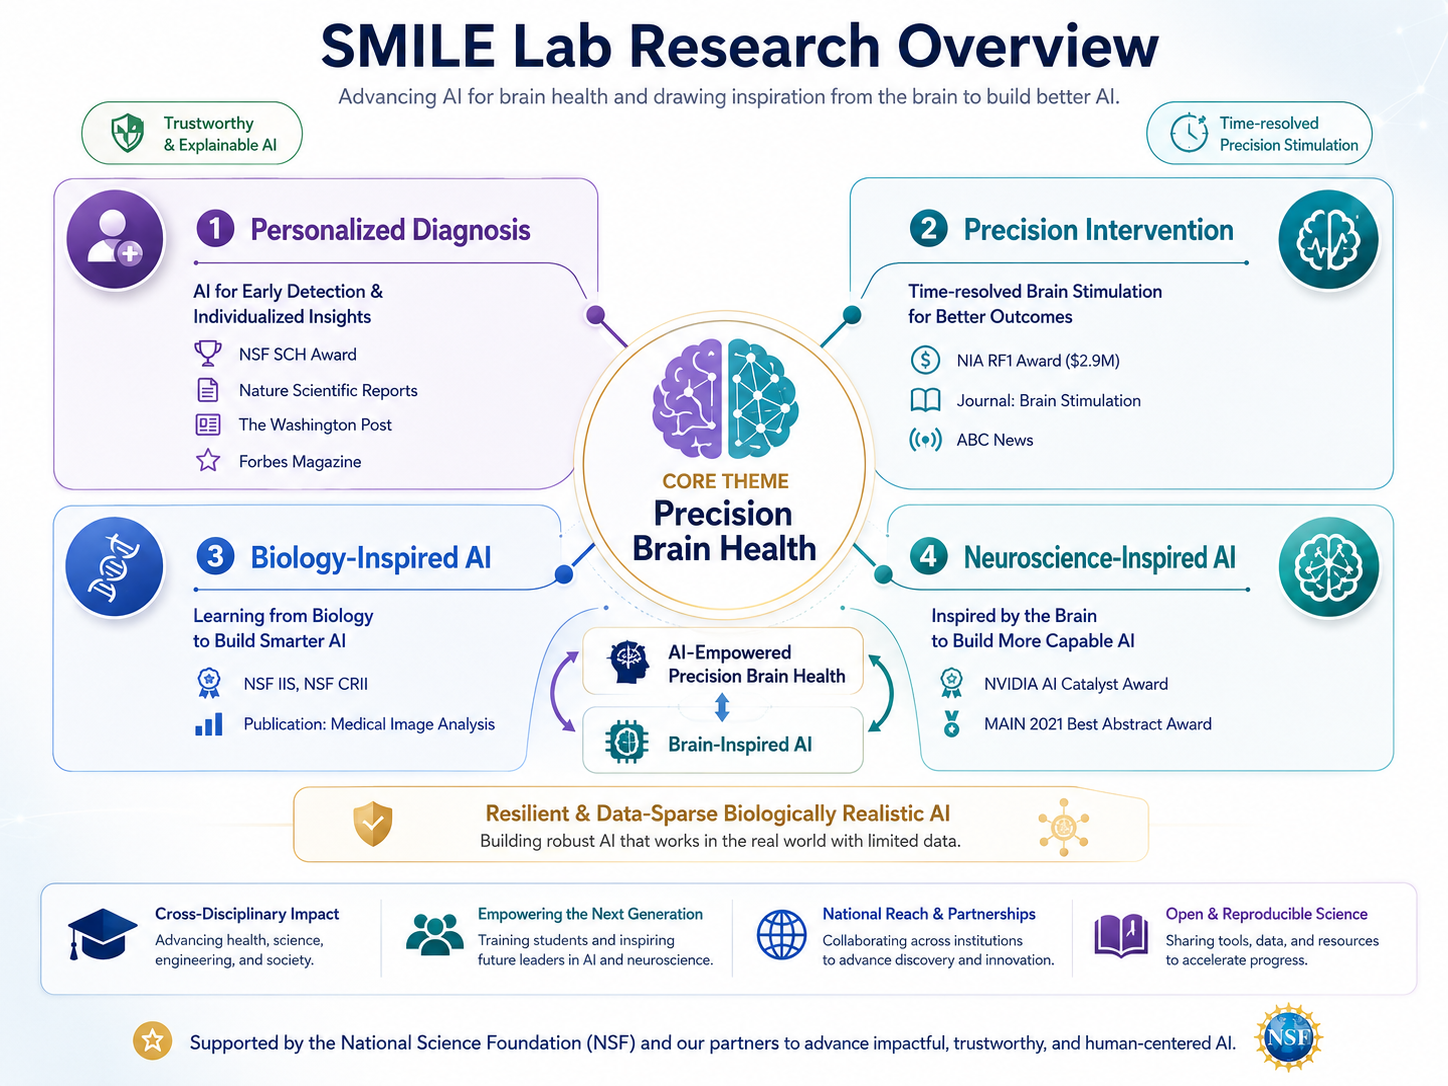
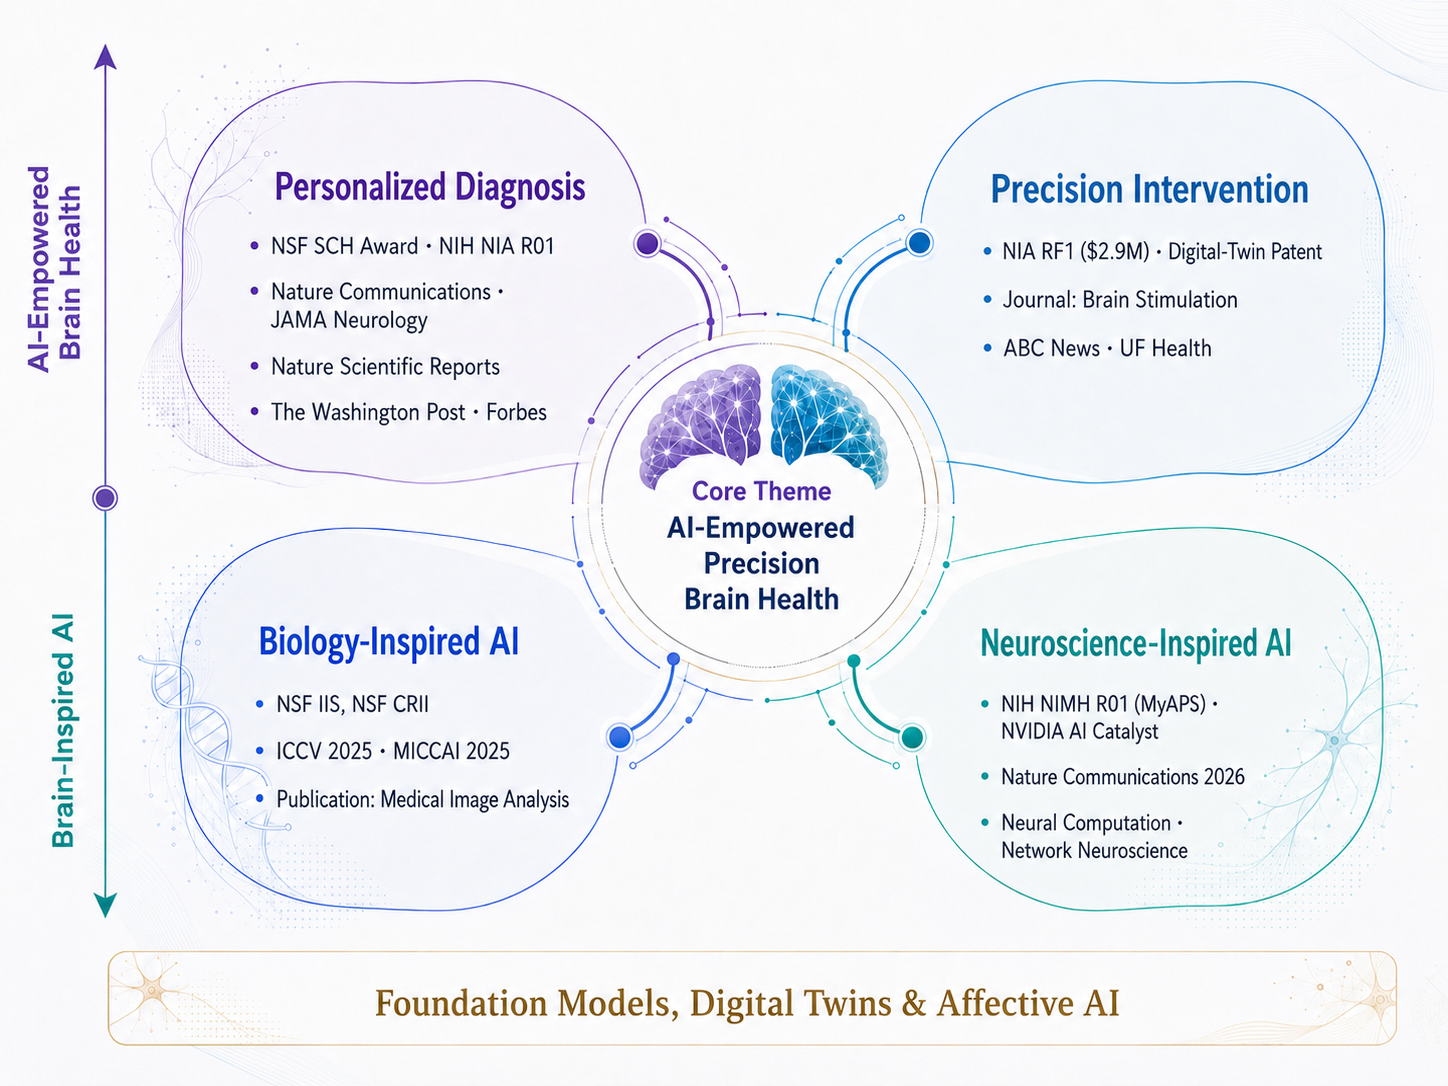
update to research

Changed region(s): [[0.0, 0.0912, 0.9634, 1.0], [0.1865, 0.0, 0.808, 0.1215], [0.0622, 0.0304, 0.0932, 0.0608]]

diff --git a/index.html b/index.html
@@ -3186,25 +3186,19 @@
                     <div class="headercontent">
                         <div class="section-container">
                             <h2 class="title">Research Summary</h2>
-                            <div class="row">
-                                <div class="col-md-8">
-                                    <img alt="Research overview diagram" src="img/research/overvew.png" class="img-responsive">
-                                </div>
-
-                                <div class="col-md-4">
-                                    <div class="subtitle text-center">
-                                        <h3>Interests</h3>
-                                    </div>
-                                    <ul class="ul-boxed list-unstyled">
-                                        <li>AI-Empowered Brain Health</li>
-                                        <li>Brain-Inspired AI</li>
-                                        <li>Deep Learning</li>
-                                        <li>Brain Dynamics</li>
-                                        <li>Medical Image Analysis</li>
-                                    </ul>
-                                </div>
-                                <img alt="Research areas tree diagram" src="img/research/Tree.png" class="img-responsive">
-
+                            <div class="research-summary-interests">
+                                <h3>Interests</h3>
+                                <ul class="ul-boxed list-unstyled">
+                                    <li>AI-Empowered Brain Health</li>
+                                    <li>Brain-Inspired AI</li>
+                                    <li>Deep Learning</li>
+                                    <li>Brain Dynamics</li>
+                                    <li>Medical Image Analysis</li>
+                                </ul>
+                            </div>
+                            <div class="research-summary-visuals">
+                                <img alt="SMILE Lab research overview of personalized diagnosis, precision intervention, biology-inspired AI, and neuroscience-inspired AI" src="img/research/research-overview.png" class="img-responsive research-infographic" width="1448" height="1086">
+                                <img alt="SMILE Lab research tree connecting individualized treatment prediction, early diagnosis, brain stimulation, medical image analysis, biology-inspired AI, and neuroscience-inspired AI" src="img/research/research-tree.png" class="img-responsive research-infographic" width="1448" height="1086">
                             </div>
                         </div>
                     </div>
@@ -3858,7 +3852,7 @@
                                     <!--YouTube Videos-->
                                     <!--To add YouTube videos take the youtube link: add /embed/ and remove watch?v=. See the example video \/ -->
 
-                                    <h2 class="title">Inside the SMILE Lab | University of Florida Research</h2>
+                                    <h2 class="title">Inside the SMILE Lab | Vanderbilt University + University of Florida Research</h2>
                                     <p></p>
                                     <div class="scripps_iframe_embed" style="position:relative">
                                         <div style="display:block;width:100%;height:auto;padding-bottom:56.25%;"></div>
@@ -3867,7 +3861,7 @@
                                             height="100%" frameborder="0" webkitallowfullscreen="" allowfullscreen=""
                                             mozallowfullscreen="" scrolling="no"
                                             src="https://www.youtube.com/embed/NPq9THkVquw?si=ETPwx8AMh-YYoKEe"
-                                            title="Inside the SMILE Lab | University of Florida Research"
+                                            title="Inside the SMILE Lab | Vanderbilt University + University of Florida Research"
                                             allow="autoplay; fullscreen"></iframe>
                                     </div>
 

diff --git a/redesign/research.html b/redesign/research.html
@@ -66,12 +66,12 @@
  <section class="py-12 md:py-16">
  <div class="max-w-7xl mx-auto px-4 sm:px-6 lg:px-8">
  <div class="bg-white rounded-2xl shadow-sm border border-stone-100 p-6 md:p-10">
- <h2 class="text-2xl font-bold mb-4">Overview</h2>
+ <h2 class="text-2xl font-bold mb-4">Research Ecosystem</h2>
  <p class="text-stone-700 leading-relaxed mb-6">
  The SMILE Lab's research encompasses two principal themes: <strong class="text-stone-900">AI-Empowered Precision Brain Health</strong> and <strong class="text-stone-900">Brain-Inspired AI</strong>. We develop novel machine learning and deep learning methods to understand, diagnose, and treat neurological conditions, while simultaneously leveraging principles from neuroscience to design next-generation AI architectures. Our interdisciplinary approach bridges biomedical engineering, computer science, and clinical neuroscience to create translational impact.
  </p>
  <figure class="mt-6">
- <img src="../img/research/research-overview.png" alt="SMILE Lab research overview showing precision brain health, personalized diagnosis, precision intervention, biology-inspired AI, and neuroscience-inspired AI" class="w-full rounded-lg" loading="lazy">
+ <img src="../img/research/research-overview.png" alt="SMILE Lab research overview of personalized diagnosis, precision intervention, biology-inspired AI, and neuroscience-inspired AI" class="research-infographic w-full rounded-lg" width="1448" height="1086" loading="lazy" decoding="async">
  </figure>
  </div>
  </div>
@@ -86,7 +86,7 @@
  Our research spans multiple interconnected areas, from foundational AI methods to clinical applications. The research tree below illustrates how our projects and expertise areas connect and build upon one another.
  </p>
  <figure>
- <img src="../img/research/research-tree.png" alt="SMILE Lab research tree connecting precision brain health with diagnosis, intervention, medical image analysis, and brain-inspired AI" class="w-full rounded-lg" loading="lazy">
+ <img src="../img/research/research-tree.png" alt="SMILE Lab research tree connecting individualized treatment prediction, early diagnosis, brain stimulation, medical image analysis, biology-inspired AI, and neuroscience-inspired AI" class="research-infographic w-full rounded-lg" width="1448" height="1086" loading="lazy" decoding="async">
  </figure>
  </div>
  </div>

diff --git a/redesign/data/default-content.html b/redesign/data/default-content.html
@@ -3197,8 +3197,8 @@
                                 </ul>
                             </div>
                             <div class="research-summary-visuals">
-                                <img alt="SMILE Lab research overview showing precision brain health, personalized diagnosis, precision intervention, biology-inspired AI, and neuroscience-inspired AI" src="img/research/research-overview.png" class="img-responsive">
-                                <img alt="SMILE Lab research tree connecting precision brain health with diagnosis, intervention, medical image analysis, and brain-inspired AI" src="img/research/research-tree.png" class="img-responsive">
+                                <img alt="SMILE Lab research overview of personalized diagnosis, precision intervention, biology-inspired AI, and neuroscience-inspired AI" src="img/research/research-overview.png" class="img-responsive research-infographic" width="1448" height="1086">
+                                <img alt="SMILE Lab research tree connecting individualized treatment prediction, early diagnosis, brain stimulation, medical image analysis, biology-inspired AI, and neuroscience-inspired AI" src="img/research/research-tree.png" class="img-responsive research-infographic" width="1448" height="1086">
                             </div>
                         </div>
                     </div>

diff --git a/redesign/css/custom.css b/redesign/css/custom.css
@@ -2329,3 +2329,13 @@ abbr[title] { text-decoration: underline dotted; cursor: help; }
   border-color: rgba(201, 168, 76, 0.4);
   transform: translateY(-1px);
 }
+/* Preserve the native 4:3 research artwork without stretching or upscaling. */
+.research-infographic {
+  display: block;
+  width: 100%;
+  max-width: 1448px;
+  height: auto;
+  aspect-ratio: 4 / 3;
+  object-fit: contain;
+  margin-inline: auto;
+}

diff --git a/redesign/css/canonical-sync.css b/redesign/css/canonical-sync.css
@@ -51,12 +51,11 @@
   gap: 1.5rem;
 }
 
-.canonical-research-overview .research-summary-visuals img {
-  display: block;
-  width: 100%;
+.canonical-research-overview .research-summary-visuals > img {
   border: 1px solid #e7e5e4;
   border-radius: .75rem;
 }
+
 
 .canonical-research-projects {
   order: 2;
